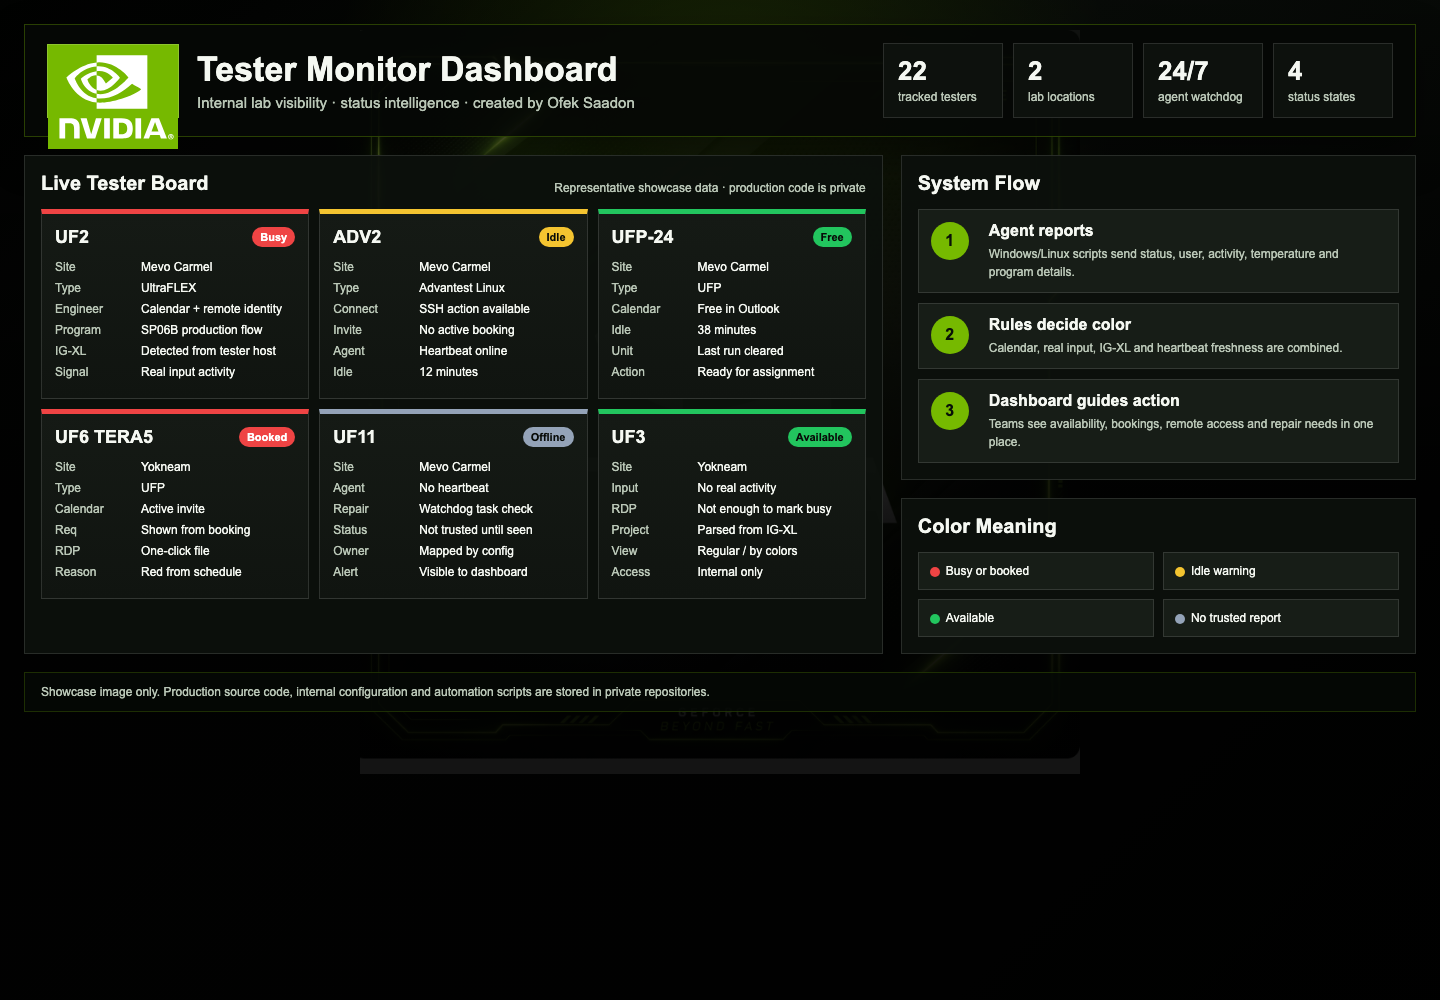
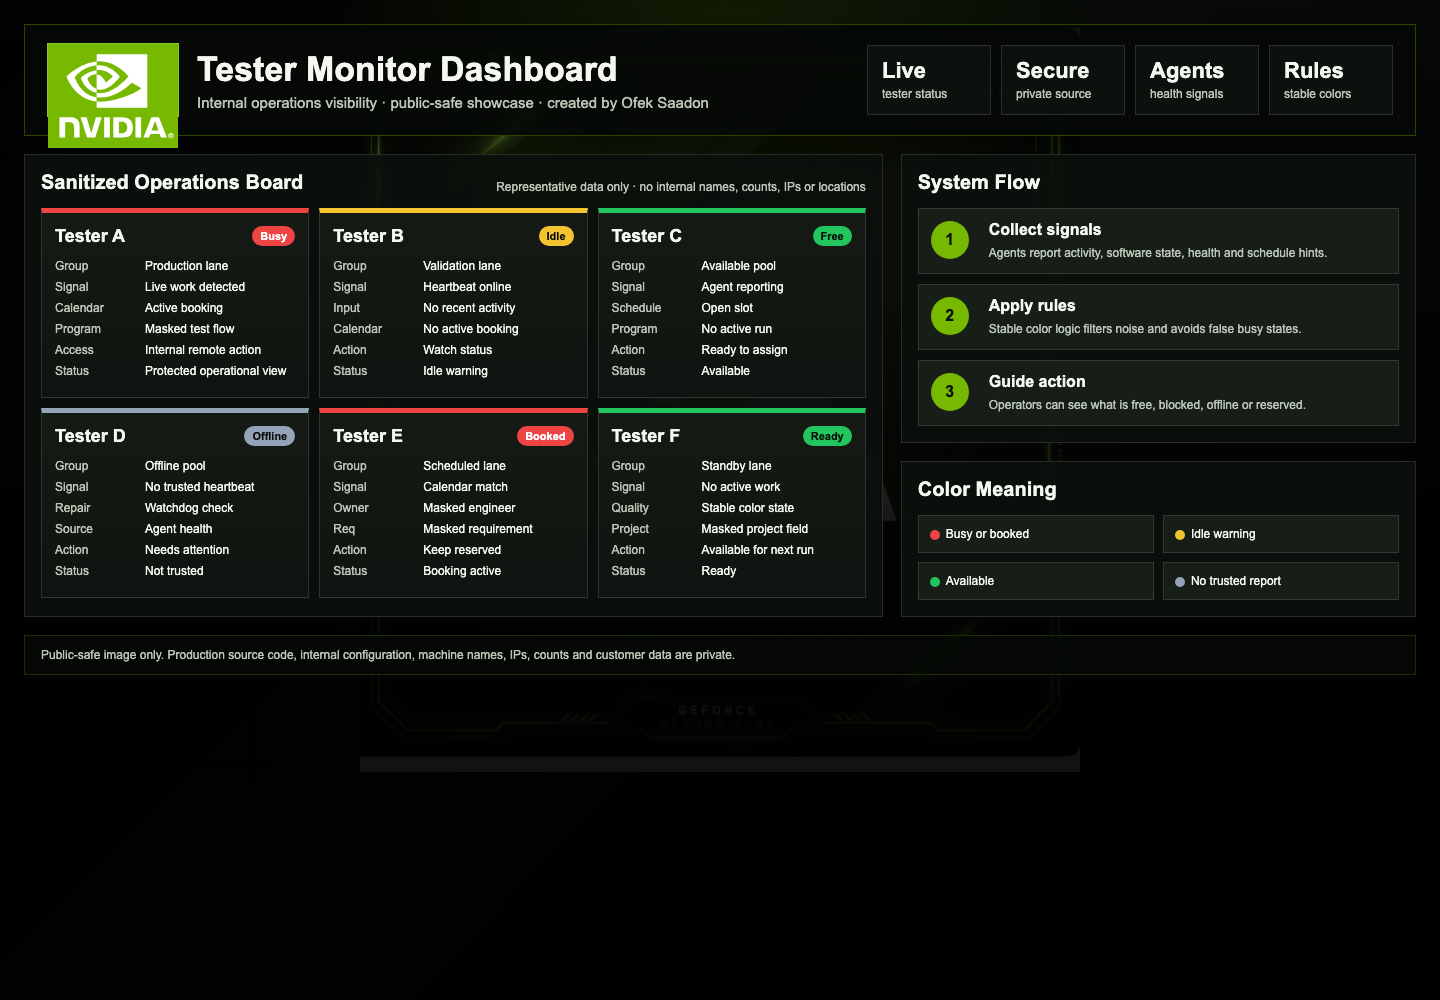
Add sanitized unit finder showcase

diff --git a/README.md b/README.md
@@ -1,27 +1,47 @@
 # Tester Monitor Dashboard
 
-Private production code. Public showcase only.
+Public showcase for a private internal operations system.
+
+The real source code and production configuration are private. This repository contains only sanitized screenshots and a project explanation.
+
+## Dashboard Overview
 
 ![Tester Monitor Dashboard overview](assets/dashboard-overview.png)
 
-## What This Project Does
+## Unit Finder
 
-Tester Monitor Dashboard is an internal lab operations dashboard built to give one clear view of tester availability, usage and schedule status.
+![Unit Finder dashboard](assets/unit-finder.png)
 
-The system combines:
+## What This Project Solves
 
-- Tester status cards with traffic-light colors.
-- Real activity detection from the machine, not only an open remote session.
-- Outlook/calendar assignment awareness.
-- Windows and Linux agent reporting.
-- Remote connection support for lab machines.
-- Temperature, IG-XL/Teradyne version and program/project visibility when available.
-- A clean operations view split by lab site and tester family.
+The dashboard was built to make tester operations easier to understand at a glance without calling people, opening multiple remote sessions or guessing which machine is actually active.
+
+It provides a clean operational layer for:
+
+- Live tester status and traffic-light availability.
+- Stable color rules that reduce false busy/free signals.
+- Agent health and heartbeat visibility.
+- Calendar-aware status context.
+- Remote action entry points for internal operators.
+- Unit finding and recent path lookup.
+- Masked ownership and run context for faster decisions.
+- Public-safe documentation that does not expose internal identifiers.
+
+## Unit Finder Capability
+
+The Unit Finder view helps operators search for a unit, understand where it was last seen, and connect that information to recent agent reports and run history.
+
+For privacy, the public screenshot uses masked unit IDs, generic tester groups and fake route data. The production system keeps real machine names, unit IDs, IPs and ownership data private.
 
 ## My Work
 
-I designed and implemented the dashboard experience, the status rules, the agent flow, the installation/repair scripts, the protected code download flow and the documentation for daily use.
+I designed and implemented the dashboard experience, status logic, agent reporting flow, protected code-download flow, remote install/repair helpers, Unit Finder view, operational documentation and public-safe portfolio presentation.
 
-## Access Note
+## Privacy And Access
 
-The real production repository is private because it contains internal automation, lab configuration and operational code. This repository intentionally contains only images and explanation for portfolio viewing.
+This repository intentionally contains only:
+
+- `README.md`
+- sanitized showcase images
+
+It does not include production code, machine names, tester names, IP addresses, unit IDs, internal counts, credentials, customer data or lab configuration.